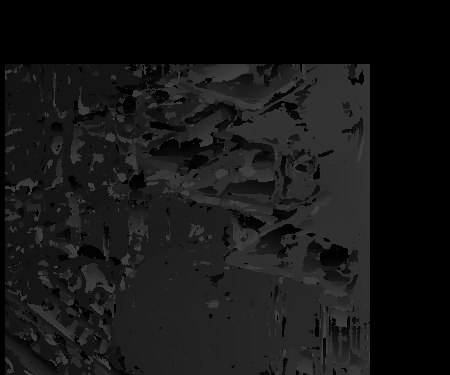
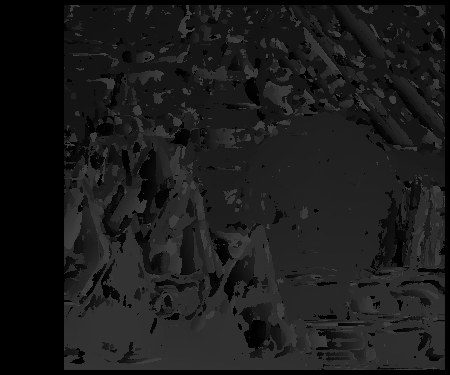
graph header

diff --git a/Calib/stereo_example.cpp b/Calib/stereo_example.cpp
@@ -7,6 +7,8 @@
 #include <opencv2/opencv.hpp>
 #include <opencv2/calib3d/calib3d.hpp>
 #include <iostream>
+#include <vector>
+#include <iterator>
 #include <string>
 #include <stdlib.h>
 #include <stdio.h>
@@ -74,25 +76,37 @@ static void StereoCalib(const char* imageList, int nx, int ny, bool useUncalibra
             continue;
 
         // find circle grids and centers there in:
-        for(int s=1; s<=maxScale; s++)
-        {
-            cv::Mat timg = img;
-            if(s > 1)
-                resize(img, timg, cv::Size(), s, s, cv::INTER_CUBIC);
-            found[lr] = cv::findCirclesGrid(
-                    timg,
-                    cv::Size(nx, ny),
-                    corners[lr],  // image coordinates
-                    cv::CALIB_CB_ASYMMETRIC_GRID | cv::CALIB_CB_CLUSTERING
-            );
+   //     for(int s=1; s<=maxScale; s++)
+   //     {
+   //         cv::Mat timg = img;
+   //         if(s > 1)
+   //             resize(img, timg, cv::Size(), s, s, cv::INTER_CUBIC);
+   //         //found[lr] = cv::findCirclesGrid(
+   //         //        timg,
+   //         //        cv::Size(nx, ny),
+   //         //        corners[lr],  // image coordinates
+   //         //        cv::CALIB_CB_ASYMMETRIC_GRID | cv::CALIB_CB_CLUSTERING
+   //         //);
+			//found[lr] = cv::findChessboardCorners(
+			//	timg, cv::Size(nx, ny),
+			//	corners[lr],
+			//	cv::CALIB_CB_ADAPTIVE_THRESH | cv::CALIB_CB_FILTER_QUADS
+			//);
 
-            if(found[lr] || s==maxScale){
-                cv::Mat mcorners(corners[lr]);
-                mcorners *= (1./s);
-            }
-            if(found[lr])
-                break;
-        }
+   //         if(found[lr] || s==maxScale){
+   //             cv::Mat mcorners(corners[lr]);
+   //             mcorners *= (1./s);
+   //         }
+   //         if(found[lr])
+   //             break;
+   //     }
+		cv::Mat timg = img;
+		// std::cout << "before find chessboard" << std::endl;
+	    found[lr] = cv::findChessboardCorners(
+   			timg, cv::Size(nx, ny),
+   			corners[lr],
+   			cv::CALIB_CB_ADAPTIVE_THRESH | cv::CALIB_CB_FILTER_QUADS
+		);
 
         if(displayCorners){
             std::cout << buf << std::endl;
@@ -133,11 +147,13 @@ static void StereoCalib(const char* imageList, int nx, int ny, bool useUncalibra
             points[1],
             M1, D1, M2, D2,
             imageSize, R, T, E, F,
+			cv::CALIB_FIX_ASPECT_RATIO | cv::CALIB_ZERO_TANGENT_DIST | cv::CALIB_SAME_FOCAL_LENGTH,
             cv::TermCriteria(
                     cv::TermCriteria::COUNT | cv::TermCriteria::EPS, 100, 1e-5
-            ),
-            cv::CALIB_FIX_ASPECT_RATIO | cv::CALIB_ZERO_TANGENT_DIST | cv::CALIB_SAME_FOCAL_LENGTH
+            )
+            //cv::CALIB_FIX_ASPECT_RATIO | cv::CALIB_ZERO_TANGENT_DIST | cv::CALIB_SAME_FOCAL_LENGTH
     );
+
     std::cout << "Done\n\n";
 
     /*
@@ -190,7 +206,7 @@ static void StereoCalib(const char* imageList, int nx, int ny, bool useUncalibra
              );
          }
          else{
-            // use intrinsic parameters of each camera, bug compute the rectification transformation directly from the fundamental matrix
+            // use intrinsic parameters of each camera, but compute the rectification transformation directly from the fundamental matrix
              std::vector<cv::Point2f> allpoints[2];
              for(i=0; i<nframes; i++){
                  std::copy(
@@ -225,8 +241,14 @@ static void StereoCalib(const char* imageList, int nx, int ny, bool useUncalibra
                      M1, D1, R1, P1,
                      imageSize,
                      CV_16SC2,
-                     map21, map22
+                     map11, map12
              );
+			 cv::initUndistortRectifyMap(
+				 M2, D2, R2, P2,
+				 imageSize,
+				 CV_16SC2,
+				 map21, map22
+			 );
 
          }
          // rectify the images and find disparity maps
@@ -237,19 +259,11 @@ static void StereoCalib(const char* imageList, int nx, int ny, bool useUncalibra
              pair.create(imageSize.height*2, imageSize.width, CV_8UC3);
 
          // setup for finding stereo correspondences
-//         cv::Ptr<cv::StereoSGBM> stereo = cv::StereoSGBM::create(
-//                 -64, 128, 11, 100, 1000,
-//                 32, 0, 15, 1000, 16,
-//                 cv::StereoSGBM::MODE_HH
-//         );
-         cv::StereoSGBM stereo(
+         cv::Ptr<cv::StereoSGBM> stereo = cv::StereoSGBM::create(
                  -64, 128, 11, 100, 1000,
                  32, 0, 15, 1000, 16,
-                 false
+                 cv::StereoSGBM::MODE_HH
          );
-
-
-
 
          for(i=0; i<nframes; i++)
          {
@@ -264,8 +278,8 @@ static void StereoCalib(const char* imageList, int nx, int ny, bool useUncalibra
              cv::remap(img2, img2r, map21, map22, cv::INTER_LINEAR);
 
              if(!isVerticalStereo || useUncalibrated){
-                 //stereo.compute(img1r, img2r, disp);
-                 stereo.operator()(img1r, img2r, disp);
+                 stereo->compute(img1r, img2r, disp);
+                 //stereo.operator()(img1r, img2r, disp);
                  cv::normalize(disp, vdisp, 0, 256, cv::NORM_MINMAX, CV_8U);
                  cv::imshow("disparity", vdisp);
              }
@@ -309,7 +323,7 @@ static void StereoCalib(const char* imageList, int nx, int ny, bool useUncalibra
 int main(int argc, char** argv)
 {
     int board_w = 9, board_h = 6;
-    const char* board_list = "ch12_list.txt";
+    const char* board_list = "list.txt";
     if(argc == 4){
         board_list = argv[1];
         board_w = atoi(argv[2]);

diff --git a/Match/localmatch.cpp b/Match/localmatch.cpp
@@ -1,4 +1,7 @@
 #include "localmatch.h"
+#include <cv.h>
+#include <cxcore.h>
+#include <cvaux.h>
 
 cv::Mat SADMatch(cv::Mat& left, cv::Mat& right, int search_range, int win_wsize, int win_hsize)
 {
@@ -111,7 +114,7 @@ cv::Mat NCCMatch(cv::Mat& left, cv::Mat& right, int search_range, int win_size)
 			}
 
 			disparity.at<uchar>(v, u) = uchar(u - min_u);
-			
+			printf("set v,u(%d, %d)\n", v, u);
 
 		}
 	}
@@ -134,4 +137,10 @@ float NCCEnergy(cv::Mat& patch1, cv::Mat& patch2, float left_avg)
 
 	float result = numerator / sqrt(temp3 * temp4);
 	return result;
+}
+
+
+void test()
+{
+	
 }

diff --git a/Calib/calib.cpp b/Calib/calib.cpp
@@ -10,7 +10,7 @@ using namespace std;
 
 void help(char* argv[]) {}
 
-int main(int argc, char* argv[])
+int main_calib(int argc, char* argv[])
 {
 	int n_boards = 0;  // number of images
 	float image_sf = 0.5f;
